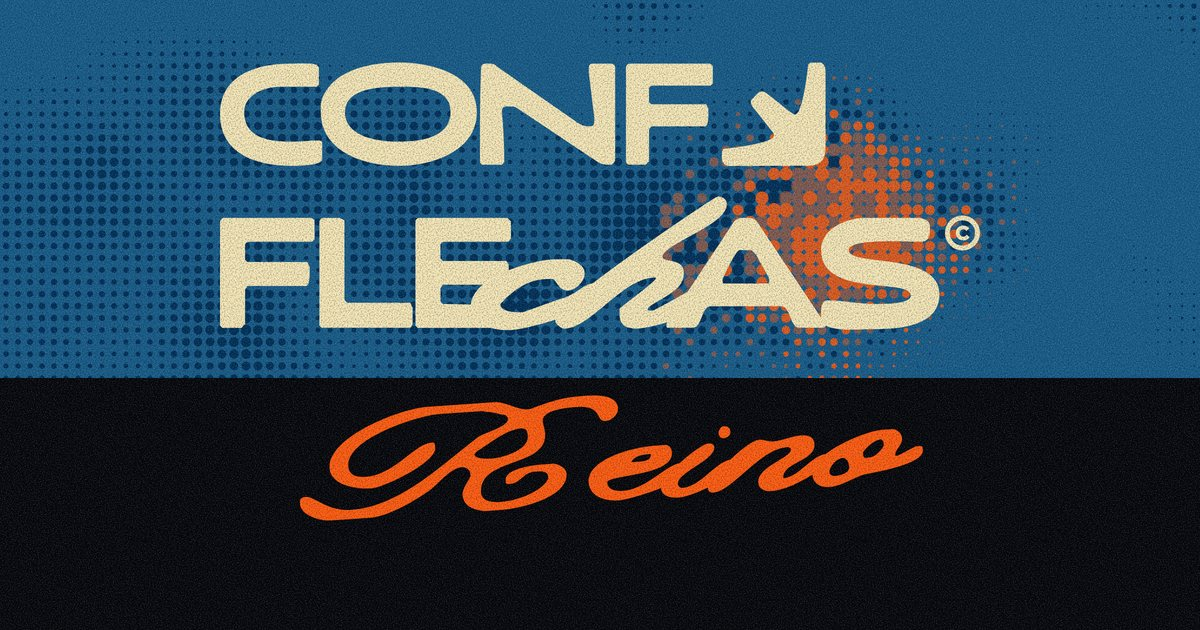
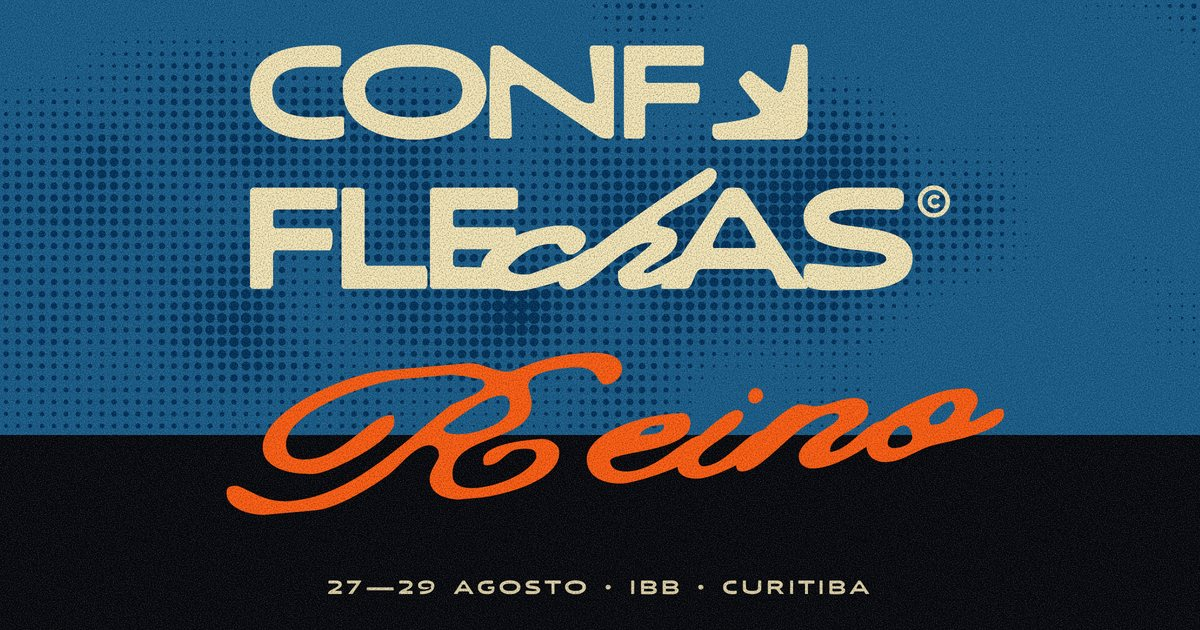
Thumb do link: "Reino" atravessando a divisa, faixa preta menor, data e local
- "Reino" maior, sobre a divisa entre o azul e o preto
- Faixa preta mais baixa, com data e local
- Sem a mancha laranja da retícula

Claude-Session: https://claude.ai/code/session_01CBGocxTkkwjbjozrdacVym

diff --git a/index.html b/index.html
@@ -10,8 +10,8 @@
 <meta property="og:title" content="Conferência Flechas 2027 · Reino">
 <meta property="og:description" content="27 a 29 de agosto na Igreja Batista do Bacacheri, Curitiba. Garanta sua vaga.">
 <meta property="og:url" content="https://conferenciaflechas.com.br/">
-<meta property="og:image" content="https://conferenciaflechas.com.br/img/og.jpg?v=3">
-<meta property="og:image:secure_url" content="https://conferenciaflechas.com.br/img/og.jpg?v=3">
+<meta property="og:image" content="https://conferenciaflechas.com.br/img/og.jpg?v=4">
+<meta property="og:image:secure_url" content="https://conferenciaflechas.com.br/img/og.jpg?v=4">
 <meta property="og:image:type" content="image/jpeg">
 <meta property="og:image:width" content="1200">
 <meta property="og:image:height" content="630">
@@ -19,7 +19,7 @@
 <meta name="twitter:card" content="summary_large_image">
 <meta name="twitter:title" content="Conferência Flechas 2027 · Reino">
 <meta name="twitter:description" content="27 a 29 de agosto na Igreja Batista do Bacacheri, Curitiba.">
-<meta name="twitter:image" content="https://conferenciaflechas.com.br/img/og.jpg?v=3">
+<meta name="twitter:image" content="https://conferenciaflechas.com.br/img/og.jpg?v=4">
 <link rel="canonical" href="https://conferenciaflechas.com.br/">
 <link rel="icon" href="img/favicon.svg" type="image/svg+xml">
 <style>:root{padding-top:env(safe-area-inset-top,0px);padding-bottom:env(safe-area-inset-bottom,0px)}body{margin:0}img{max-width:100%}[hidden]{display:none!important}</style>
